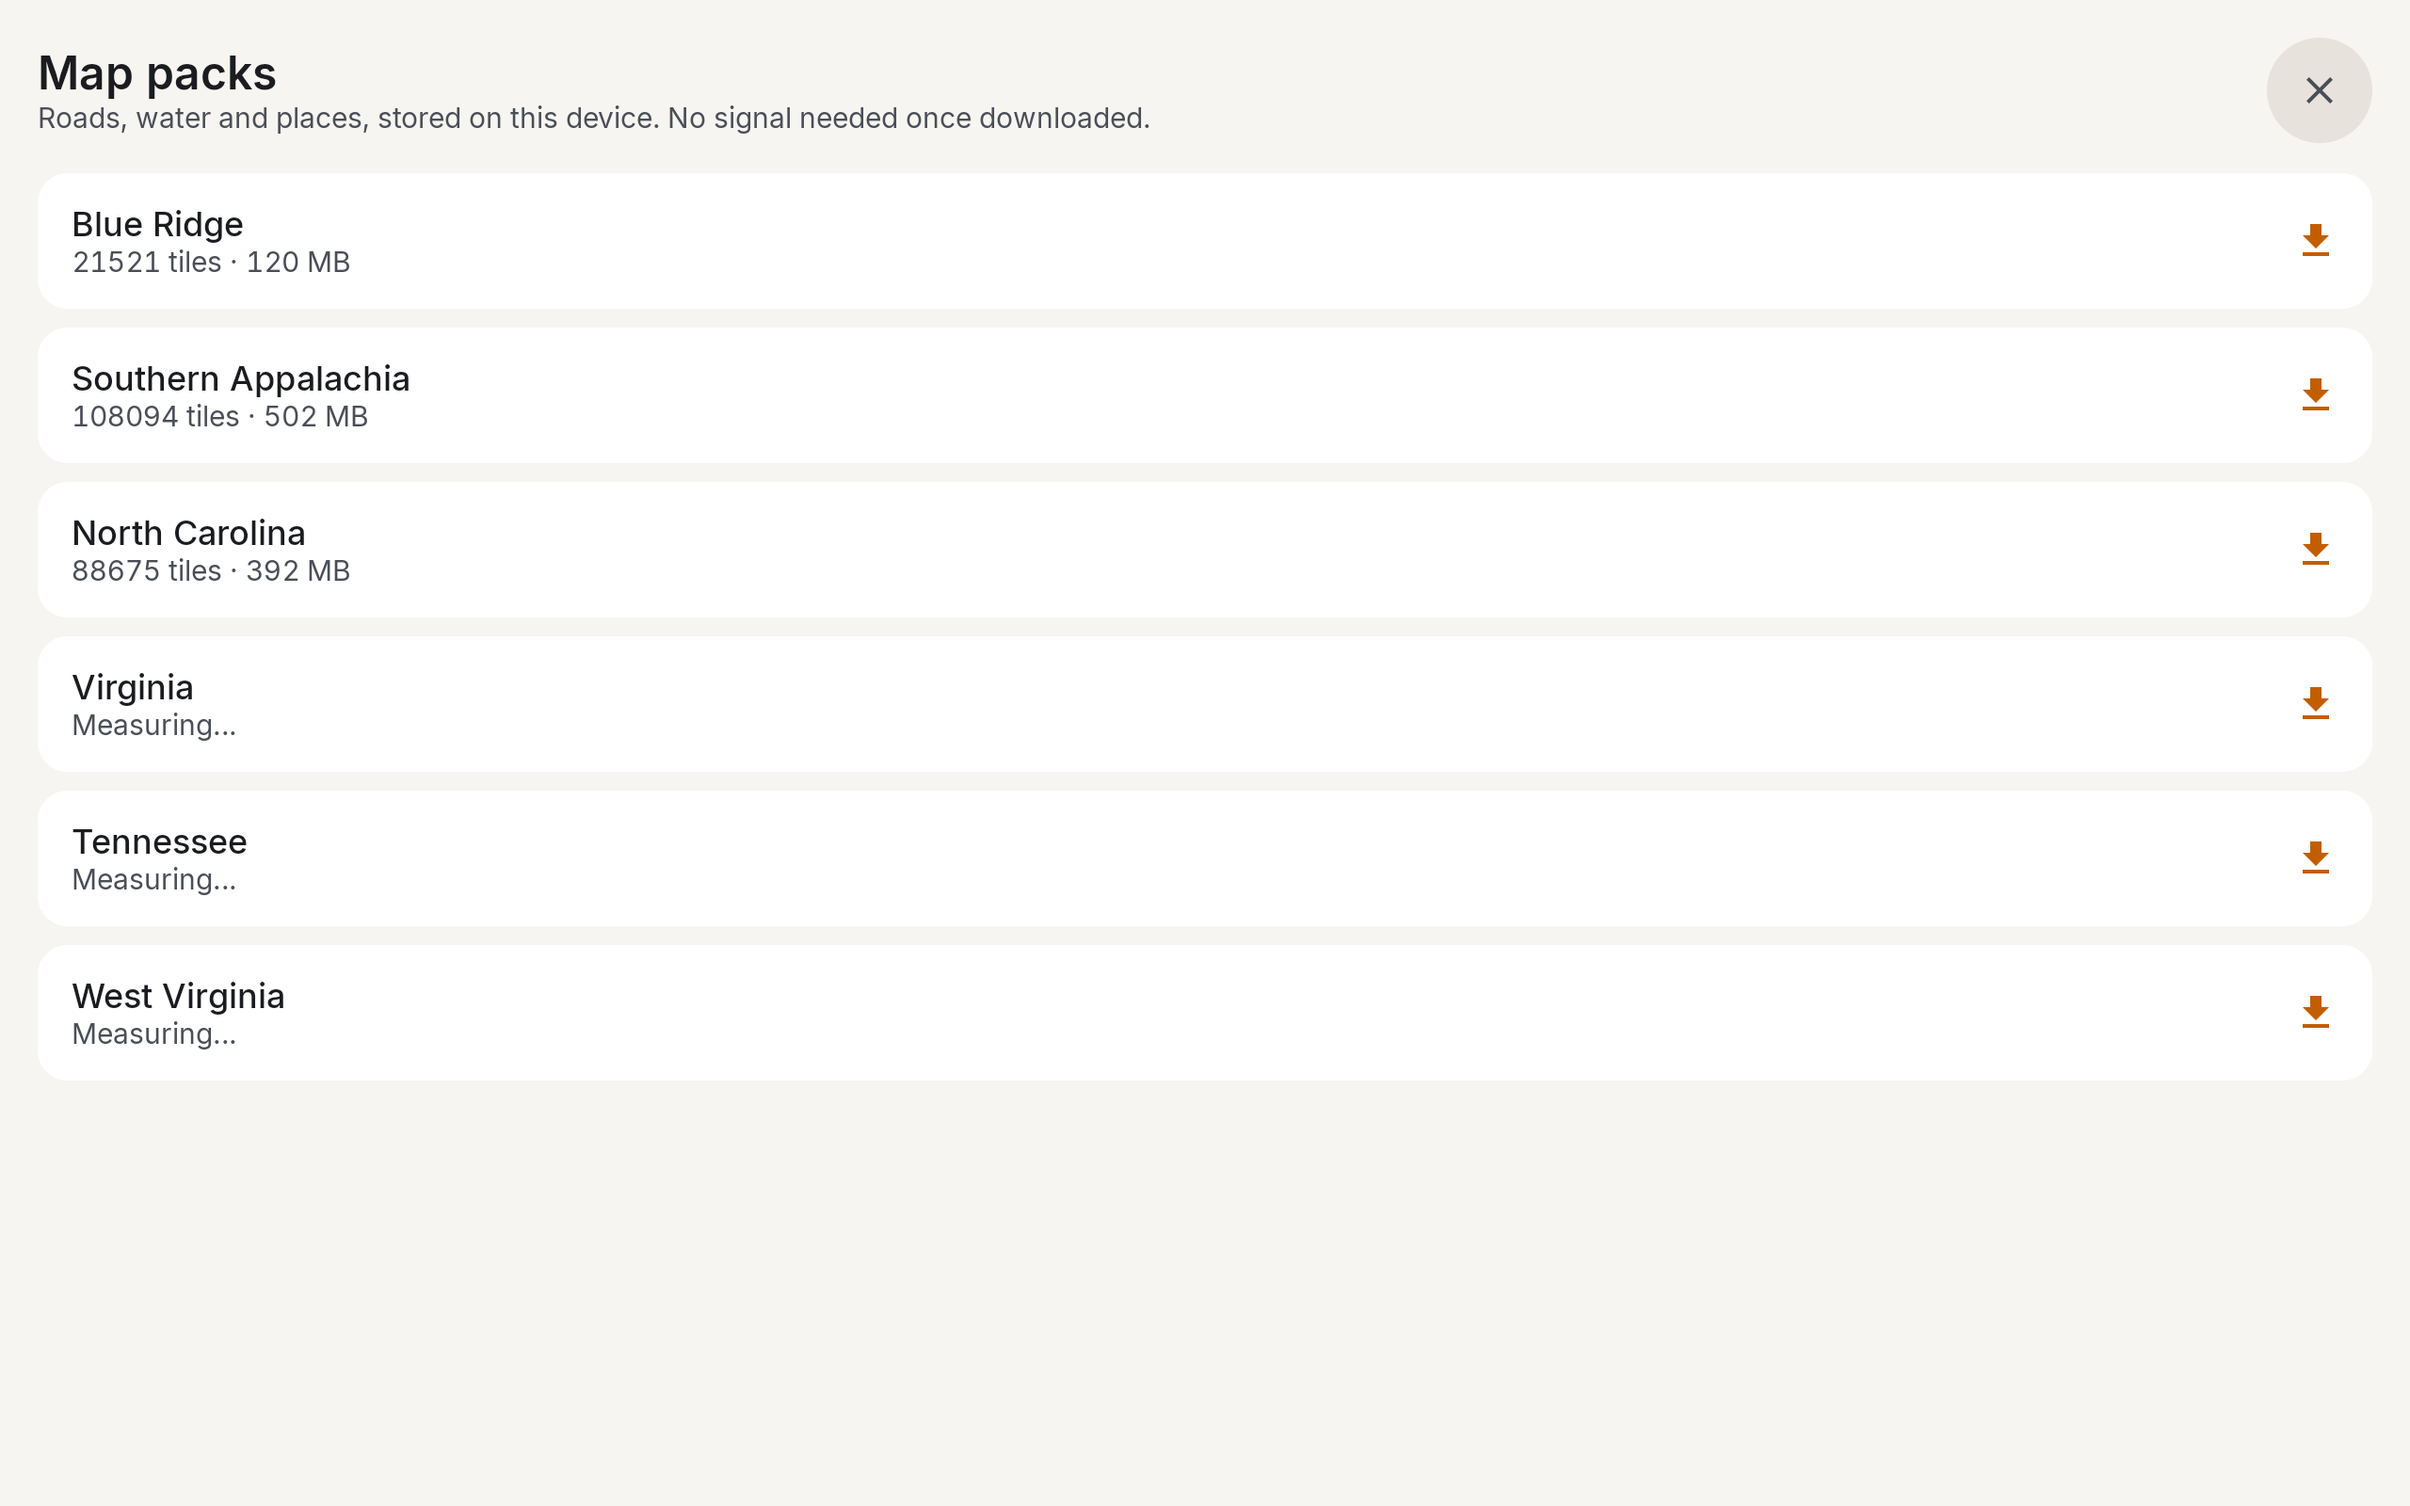
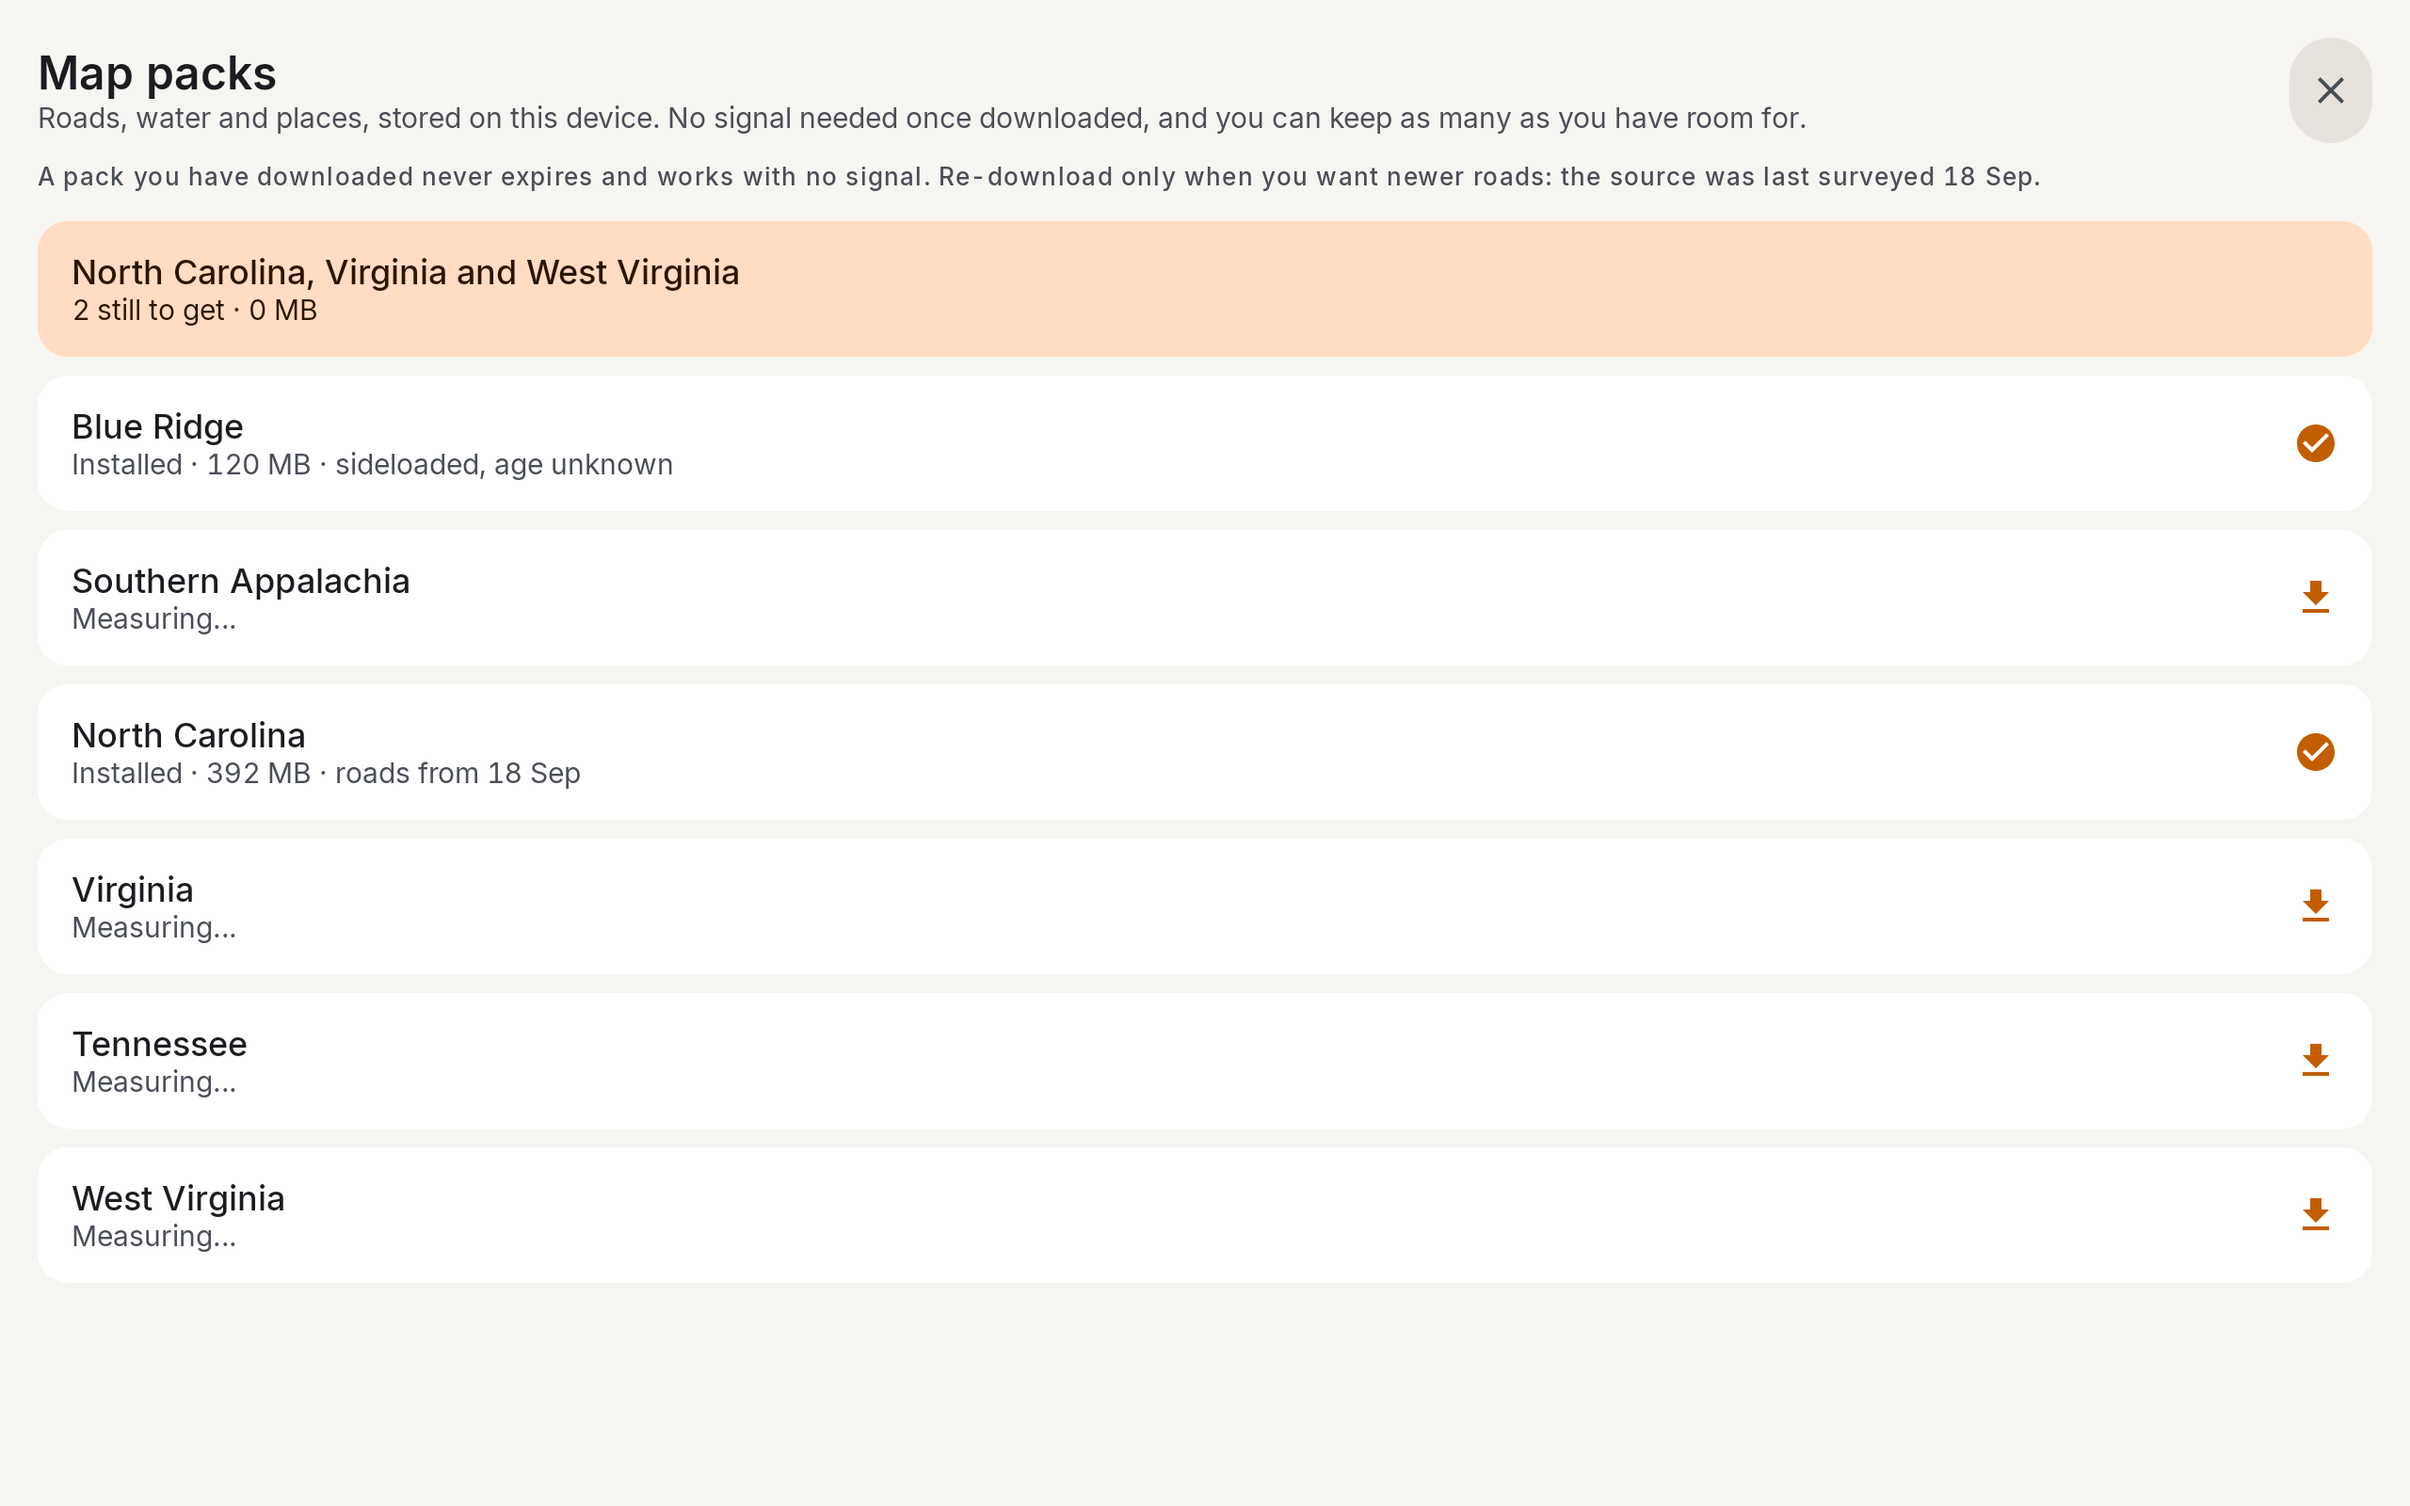
Touge: new screenshots, and the two features that changed what the app is
All shots retaken against the North Carolina pack, routing on my own box.

Route picker is Sparta to Boone now, which makes the point better than the old
one did: Old NC 16 scores 28 and costs half an hour, NC 88 scores 24 and costs
eight minutes. Two numbers, whole decision. The destination is a button in
that shot too - picking the wrong town is a tap to fix.

The driving shot earned its caption: next turn, a Ka alert with its bearing,
four cars up the road, a rear-left tire going down and a hundred miles of
weather, all at once.

New section for the route editor and the GPX library, because between them
they answer the thing search cannot. Search finds towns; it does not find the
gap between two ridges, because that road has no name in any database. Drop
pins on it instead, or ride back a line your own wheels recorded - Follow pins
you to it with no router involved, which is how a forest road the map has
never heard of stays the route.

Corrected the routing-server tile. It said routing defaults to the public
FOSSGIS instance; it goes to my box first with the public one as fallback, and
the day the public instance stopped answering is exactly why it is a list
rather than one address.

Map packs section says the thing that was wrong until this week: keep as many
as you have room for. Three states are one map with no seam, and search spans
all of them.

Unit tests 317 to 398.

diff --git a/_posts/2026-09-16-touge-offline-routing-and-recording.md b/_posts/2026-09-16-touge-offline-routing-and-recording.md
@@ -1,7 +1,7 @@
 ---
 title: "Touge"
 date: 2026-09-16 00:00:00 -0400
-last_modified_at: 2026-09-17 20:00:00 -0400
+last_modified_at: 2026-09-18 09:00:00 -0400
 categories: car tech
 tags: [touge, android, navigation, offline, maplibre, pmtiles, valhalla, meshtastic, lora, gmrs, tpms, radar, valentine-one, android-auto, dashcam, telemetry, kotlin, compose, openstreetmap, motorcycle, bronco, back-roads]
 cover: /assets/images/touge/v2/group.png
@@ -60,25 +60,27 @@ article_header:
 <div class="stat"><b>30 s</b><span>group pings, mesh or cell</span></div>
 <div class="stat"><b>100 mi</b><span>radar disc</span></div>
 <div class="stat"><b>60</b><span>car icons</span></div>
-<div class="stat"><b>317</b><span>unit tests</span></div>
+<div class="stat"><b>4</b><span>states offline</span></div>
+<div class="stat"><b>398</b><span>unit tests</span></div>
 </div>
 </div>
 
-Everything below is the app running with the Blue Ridge map pack installed. Nothing is a mockup.
+Everything below is the app running against the North Carolina map pack, routing on my own Valhalla box. Nothing is a mockup and nothing is a render.
 
 ## Plan the road, not the arrival time
 
 <p class="lead">Every other nav app offers alternatives as minutes saved. Touge offers them as corners.</p>
 
 <div class="row">
-<figure><img src="/assets/images/touge/v2/route-picker.png" alt="Four routes from Sparta NC to Marion VA, each in its own color with time, distance and twist score"><figcaption>Sparta, NC to Marion, VA. Four routes, four colors, one card per route in the same color.</figcaption></figure>
+<figure><img src="/assets/images/touge/v2/route-picker.png" alt="Four routes from Sparta to Boone, North Carolina, each in its own color with time, distance and twist score"><figcaption>Sparta to Boone, 53 miles. Four routes, four colors, one card per route in the same color.</figcaption></figure>
 <div>
 <span class="k">Route picker</span>
 <ul class="tight">
 <li>The TWIST score is measured off the geometry: heading change per mile, share of distance in real corners, median corner radius, junctions per mile. No model guesses which road sounds scenic.</li>
 <li>Four routes come from asking Valhalla four times at different highway tolerances and merging by shape. The fastest is always one of them.</li>
+<li>Old NC 16 scores 28 and costs half an hour. NC 88 scores 24 and costs eight minutes. That is the whole decision, in two numbers.</li>
 <li>Each card sits where its route is furthest from the others and wears the route's color. The selected one is outlined.</li>
-<li>The detour is a number against the fastest option, not a feeling.</li>
+<li><b>Tap the name to change it.</b> Picking the wrong town is a tap to fix, not a reason to plan the ride again.</li>
 </ul>
 </div>
 </div>
@@ -98,7 +100,7 @@ Everything below is the app running with the Blue Ridge map pack installed. Noth
 ## Drive it
 
 <div class="row">
-<figure><img src="/assets/images/touge/v2/driving.png" alt="Driving screen with the turn card, the Mini icon, the group card and the V1 alert"><figcaption>The turn card: maneuver, distance, seconds, the road in title size, lanes when the map has them.</figcaption></figure>
+<figure><img src="/assets/images/touge/v2/driving.png" alt="Driving screen with the turn card, a Ka band radar alert, the group table, a tire pressure warning and the weather radar disc"><figcaption>One screen, everything at once: the next turn, a Ka alert with its bearing, four cars up the road, a rear-left tire going down, and 100 miles of weather.</figcaption></figure>
 <div>
 <span class="k">Turn by turn</span>
 <ul class="tight">
@@ -106,6 +108,8 @@ Everything below is the app running with the Blue Ridge map pack installed. Noth
 <li>Off the route for three seconds, or pointing the wrong way, gets one reroute.</li>
 <li>Lane guidance draws the lanes to be in when the map data carries them.</li>
 <li>Calls land about eight seconds out, so they scale with speed. Music ducks, never pauses.</li>
+<li>The strip counts down. Arrival, time left and distance left come from where you actually are, not from the plan the route was fetched with.</li>
+<li>The voice is a button on the rail, not a trip into settings. Silent is one press from anything.</li>
 </ul>
 </div>
 </div>
@@ -129,6 +133,40 @@ Everything below is the app running with the Blue Ridge map pack installed. Noth
 <div class="tile"><b>Brief</b><p>Direction and road, nothing else.</p></div>
 <div class="tile"><b>Touge</b><p>Japanese, shouted, about the corner. <code>ヘアピン左！落とせ！</code> for a hairpin left. Needs a Japanese voice installed and says so if there is none.</p></div>
 </div>
+
+## Draw the road that has no name
+
+<p class="lead">Search finds towns. It does not find the gap between two ridges that the good road runs through, because that road has no name in any database. So point at it.</p>
+
+<div class="row">
+<figure><img src="/assets/images/touge/v2/editor.png" alt="Route editor with three numbered pins dropped on back roads near Sparta and the routed line running through them"><figcaption>Three pins, dragged onto the roads I meant. The engine joins them up; the line is the answer, not a sketch.</figcaption></figure>
+<div>
+<span class="k">Route editor</span>
+<ul class="tight">
+<li>Long-press to drop a pin. Drag it to move it. Tap it to change or remove it.</li>
+<li>Reverse rides it the other way, and the leg styles travel with the legs — highway out stays highway out, it does not become highway home.</li>
+<li>Close loop brings you back to the first place you chose, not to wherever the car was parked.</li>
+<li>Save GPX, or Start and drive it.</li>
+<li>The map holds still while you work. Each pin handles its own touches, so panning and zooming behave exactly as they do everywhere else.</li>
+</ul>
+</div>
+</div>
+
+<div class="row flip">
+<figure><img src="/assets/images/touge/v2/library.png" alt="Rides and routes library listing recorded rides, each with Follow, Route it, share and delete"><figcaption>Every ride it recorded, and every GPX you brought in. One flat list.</figcaption></figure>
+<div>
+<span class="k">Rides and routes</span>
+<ul class="tight">
+<li><b>Follow</b> pins you to the line exactly as recorded, with no router involved. That is how a forest road the map has never heard of stays the route.</li>
+<li><b>Route it</b> hands the same line to the engine as shaping points and gives back street names, lanes and rerouting.</li>
+<li>A recorded ride defaults to Follow. Something shared out of Maps defaults to Route it. They are different questions.</li>
+<li>Import a GPX, share one out. A plan is written as a route, a recording as a track — this will not pass off a computed line as something the wheels did.</li>
+<li>Recorded rides prune to the newest thirty. Files you imported are never touched.</li>
+</ul>
+</div>
+</div>
+
+<div class="quote">A ride you liked is a file. Ride it again, hand it to somebody, or open it and move three pins.</div>
 
 ## Ride together
 
@@ -322,12 +360,14 @@ Everything below is the app running with the Blue Ridge map pack installed. Noth
 ## Maps, search, and your own server
 
 <div class="row">
-<figure><img src="/assets/images/touge/v2/packs.png" alt="Map packs screen listing six regions with measured sizes"><figcaption>Six regions with measured sizes. Blue Ridge is 120 MB in 273 range requests.</figcaption></figure>
+<figure><img src="/assets/images/touge/v2/packs.png" alt="Map packs screen listing six regions with measured sizes and installed state"><figcaption>Measured, not estimated. North Carolina is 88,675 tiles and 392 MB; the three states I actually ride are 1.14 GB in one tap.</figcaption></figure>
 <div>
 <span class="k">Map packs</span>
 <ul class="tight">
 <li>PMTiles is read in place, so the app walks the planet file's directory and adds up exactly the bytes it needs before fetching any.</li>
-<li>The search index is built on the device from the same tiles: 207,879 places, towns and roads for Blue Ridge in about forty seconds.</li>
+<li><b>Keep as many as you have room for.</b> Every pack is drawn as its own layer, so North Carolina, Virginia and West Virginia are one map with no seam and no switching.</li>
+<li>The search index is built on the device from the same tiles and spans every pack, so a Virginia town is findable from a North Carolina car park.</li>
+<li>A pack you have downloaded never expires and needs no signal. Each row shows how old its roads are, and only suggests a refresh once that actually means something.</li>
 </ul>
 </div>
 </div>
@@ -338,15 +378,16 @@ Everything below is the app running with the Blue Ridge map pack installed. Noth
 <span class="k">Search</span>
 <ul class="tight">
 <li>Runs over the on-device index, not the tiles on screen. A diner 120 miles ahead is as findable as one in view.</li>
-<li>Fuel, bathroom, food and coffee are one tap each, ordered by distance ahead. Food hides chains by brand tag and checks opening hours, overnight spans included.</li>
+<li>Fuel, bathroom, food and coffee are one tap each. On a route they are ordered by how soon you reach them, not by how near they are — the closest pump is often twenty minutes behind you. Food hides chains by brand tag and checks opening hours, overnight spans included.</li>
+<li>The last places you picked, and any you starred, come up on an empty box. Typing a town name in a moving car is the most expensive thing this app asks for.</li>
 </ul>
 </div>
 </div>
 
 <div class="grid3">
-<div class="tile"><b>Breadcrumbs</b><p>Every ride is recorded as GPX with no button. Points closer than 50 feet are dropped unless the heading moved 12 degrees, so the corners are kept.</p></div>
+<div class="tile"><b>Breadcrumbs</b><p>Every ride is recorded as GPX with no button. Points closer than 50 feet are dropped unless the heading moved 12 degrees, so the corners are kept. They land in Rides and routes, ready to Follow.</p></div>
 <div class="tile"><b>Police reports</b><p>Over SABRE, an open Android protocol. Every alert carries its age and fades; police expire at 25 minutes, a closed road at six hours.</p></div>
-<div class="tile"><b>Routing server</b><p>Routing defaults to the public FOSSGIS instance, which is free, shared and rate limited. A small monthly subscription (about $3) routes on my server, which answers in well under a second and carries the Appalachian extract. Settings also take any Valhalla URL of your own.</p></div>
+<div class="tile"><b>Routing server</b><p>Routing goes to my Valhalla box first — well under a second, four states of tiles — with the public FOSSGIS instance behind it as a fallback for anywhere outside them. A list, not one address, because the day the public instance stopped answering it took every device with it. A small monthly subscription (about $3) covers the server. Settings take any Valhalla URL of your own.</p></div>
 <div class="tile"><b>Android Auto</b><p>The tablet's map on the head unit: same style and pack, the route, the group's cars with their icons, the radar disc as an inset, heading up. The turn card with lanes and ETA; Skip, Later and Go on when a stop is ahead; Group, Routes, Search and Tires as car screens; tire and radar alerts as car toasts. The phone app does the work and the head unit shows it.</p></div>
 </div>
 
